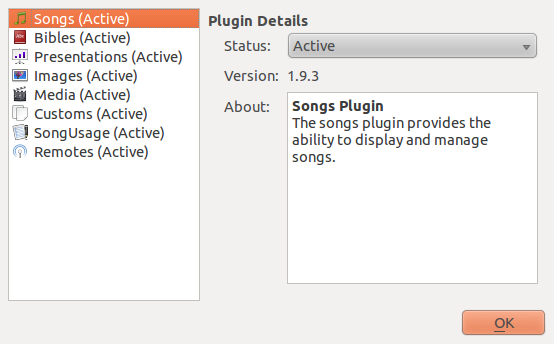
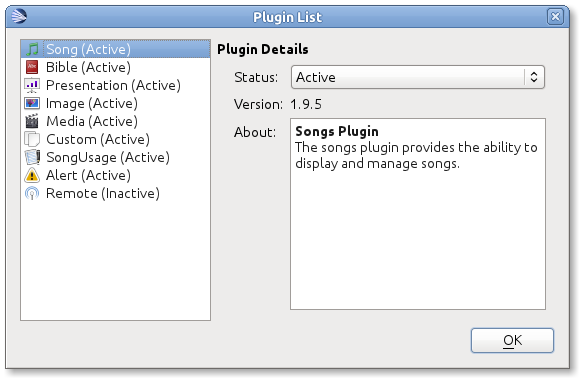
added troubleshooting section corrected a couple of screenshots also

Changed region(s): [[0.0, 0.0, 1.0, 0.9884]]

diff --git a/documentation/manual/source/troubleshooting.rst b/documentation/manual/source/troubleshooting.rst
@@ -1,0 +1,117 @@
+===============
+Troubleshooting
+===============
+
+I can not play videos or other media
+====================================
+
+If you can not play video or audio through openlp, there are several areas that
+could be an issue. First thing is to make sure you can play the media file 
+through your default media player. OpenLP should be able to play any file that
+you can play through your default media player.
+
+If you can play a file through your media player but not on OpenLP it may help
+to enable Phonon for multimedia playback. Go to the OpenLP configuration
+:menuselection:`Settings --> Configure OpenLP...` and select the Media tab.
+Make sure the check box for `Use Phonon for video playback` is checked.
+
+.. image:: pics/phononcheckbox.png
+
+Codecs
+------
+
+You may need to install codecs for certain files to play. Most newer versions 
+of Windows and OS X will support most media types. Most Linux distributions 
+will require a little more help to get certain media types to play.
+
+Microsoft Windows
+^^^^^^^^^^^^^^^^^
+
+Later versions of Microsoft Windows (Vista, Windows 7) generally come with 
+everything you need to play most media formats. If for some reason you need 
+additional codecs we have seen success from the Combined Community Codec Pack
+(CCCP): http://www.cccp-project.net/  You might also wish to check out the
+K-Lite Codec Pack. If you are having issues, results do seem to vary with the 
+different options. What works for some may not for others, so some trial and 
+error may be required.
+
+Mac
+^^^
+
+If you are using a Mac. You may wish to play Windows formats. flip4mac enables
+you to use popular Windows formats such as .wmv on your Mac. You can get it 
+here http://dynamic.telestream.net/downloads/download-flip4macwmv.htm
+
+Ubuntu Linux (and variants)
+^^^^^^^^^^^^^^^^^^^^^^^^^^^
+
+If you are using Ubuntu Linux, or one of its variants (Kubuntu, Edubuntu, etc...)
+it is a fairly quick and easy process to get all the codecs you need to make 
+things work. You will need to install two meta-packages that contain all the 
+multimedia codecs that you will generally need. From the Software Center install
+ubuntu-restricted-extras and Kubuntu-restricted-extras, or from the terminal::
+ 
+  user@linux:~ $ sudo apt-get install ubuntu-restricted-extras kubuntu-restricted-extras
+
+**Note** if you are running Kubuntu there is no need to install the
+ubuntu-restricted-extras meta-package
+
+For more information on Ubuntu and multimedia issues please check out
+https://help.ubuntu.com/community/RestrictedFormats/
+
+Arch Linux
+^^^^^^^^^^
+
+The following command provides the most complete solution for codecs on Arch
+Linux::
+  
+  root@linux:~ # pacman -S gstreamer0.10-{base,good,bad,ugly}-plugins gstreamer0.10-ffmpeg
+
+If you need more help with Arch Linux and multimedia please see the Arch Linux
+documentation at https://wiki.archlinux.org/index.php/Codecs
+
+Debian Linux
+^^^^^^^^^^^^
+
+You will need to add the Debian Multimedia Repository. So to /etc/apt/sources.list::
+
+  deb http://www.debian-multimedia.org testing main non-free
+
+Then install the following packages::
+
+  root@linux:~ # apt-get install gstreamer0.10-ffmpeg gstreamer0.10-ffmpeg-dbg gstreamer0.10-lame gstreamer0.10-plugins-really-bad gstreamer0.10-plugins-bad gstreamer0.10-plugins-ugly gstreamer0.10-plugins-good gstreamer0.10-x264
+
+Fedora Linux
+^^^^^^^^^^^^
+You will need to set up Fedora to play most media formats. This is relatively
+simple using the rpmfusion repository. 
+
+**Note** the following commands will enable a third party repository to your 
+system. Please check out http://rpmfusion.org for more information.
+
+To enable both the free and nonfree components for any Fedora official release
+enter the following commands::
+
+  su -c 'yum localinstall --nogpgcheck http://download1.rpmfusion.org/free/fedora/rpmfusion-free-release-stable.noarch.rpm http://download1.rpmfusion.org/nonfree/fedora/rpmfusion-nonfree-release-stable.noarch.rpm'
+
+After enabling the rpmfusion repository you will want to refresh your package
+list, perform any updates and search for gstreamer-good, bad, and ugly and
+install.
+
+Here is a good tutorial video on the rpmfusion repository 
+http://www.linuxjournal.com/video/getting-mp3-support-fedora-using-rpmfusion-repositories
+
+The Media Manager appears to be missing some features
+=====================================================
+
+If you do not see all the features listed in the Media Manager, you may need
+to enable them. 
+
+To enable the plugins navigate to :menuselection:`Settings --> Plugins` or
+press `F7`. You will want to click on the plugin to the left that you want to 
+enable and select **active** from the drop down box to the right.
+
+.. image:: pics/plugins.png
+
+By default all plugins should be enabled during the first run wizard except the
+remotes plugin, unless you specify differently.

diff --git a/documentation/manual/source/index.rst b/documentation/manual/source/index.rst
@@ -19,3 +19,4 @@ Contents:
    themes
    mediamanager
    songs
+   troubleshooting
